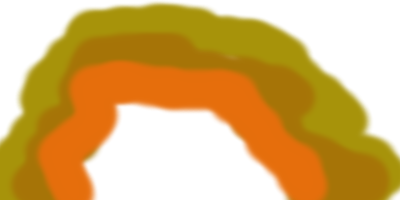
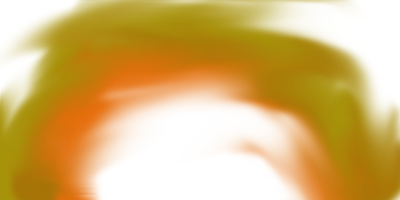
circulating better and with more

diff --git a/opc/pattern-77million.go b/opc/pattern-77million.go
@@ -15,8 +15,8 @@ import (
 const (
 	IMG_DIR = "images/77m"
 	NUM_LAYERS = 4
-	LAYER_CHANGE_SECS = 4
-	LAYER_GAIN_BASELINE = 0.0
+	LAYER_CHANGE_SECS = 10
+	LAYER_GAIN_BASELINE = 0.1
 	)
 
 var (
